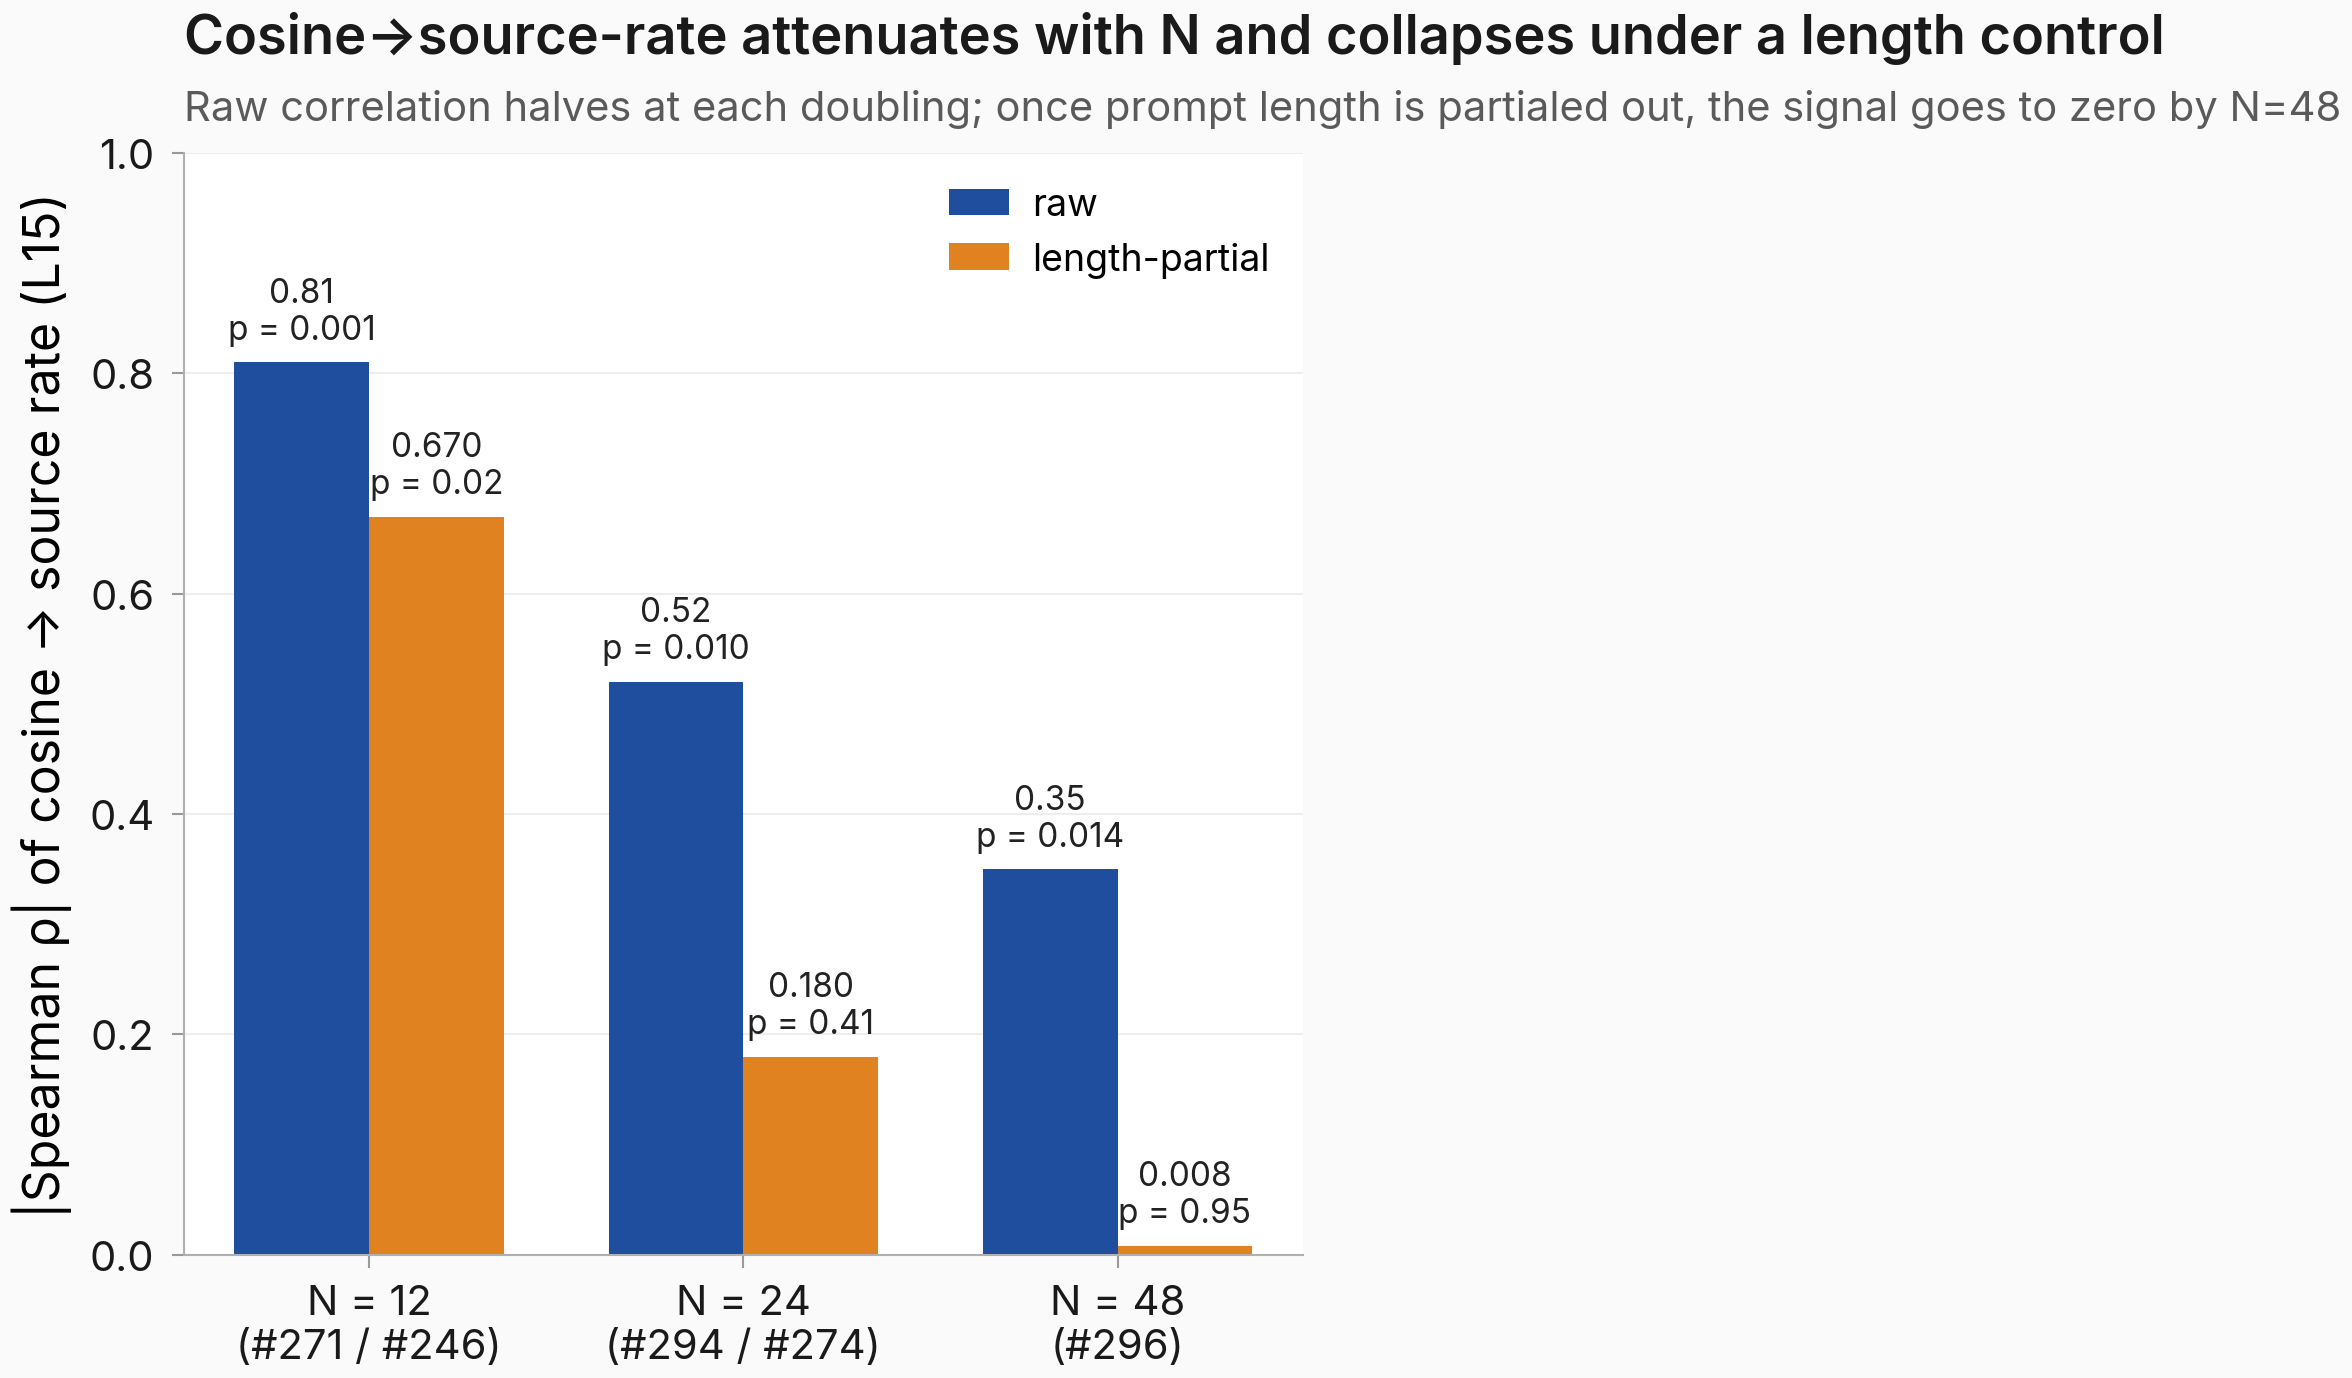
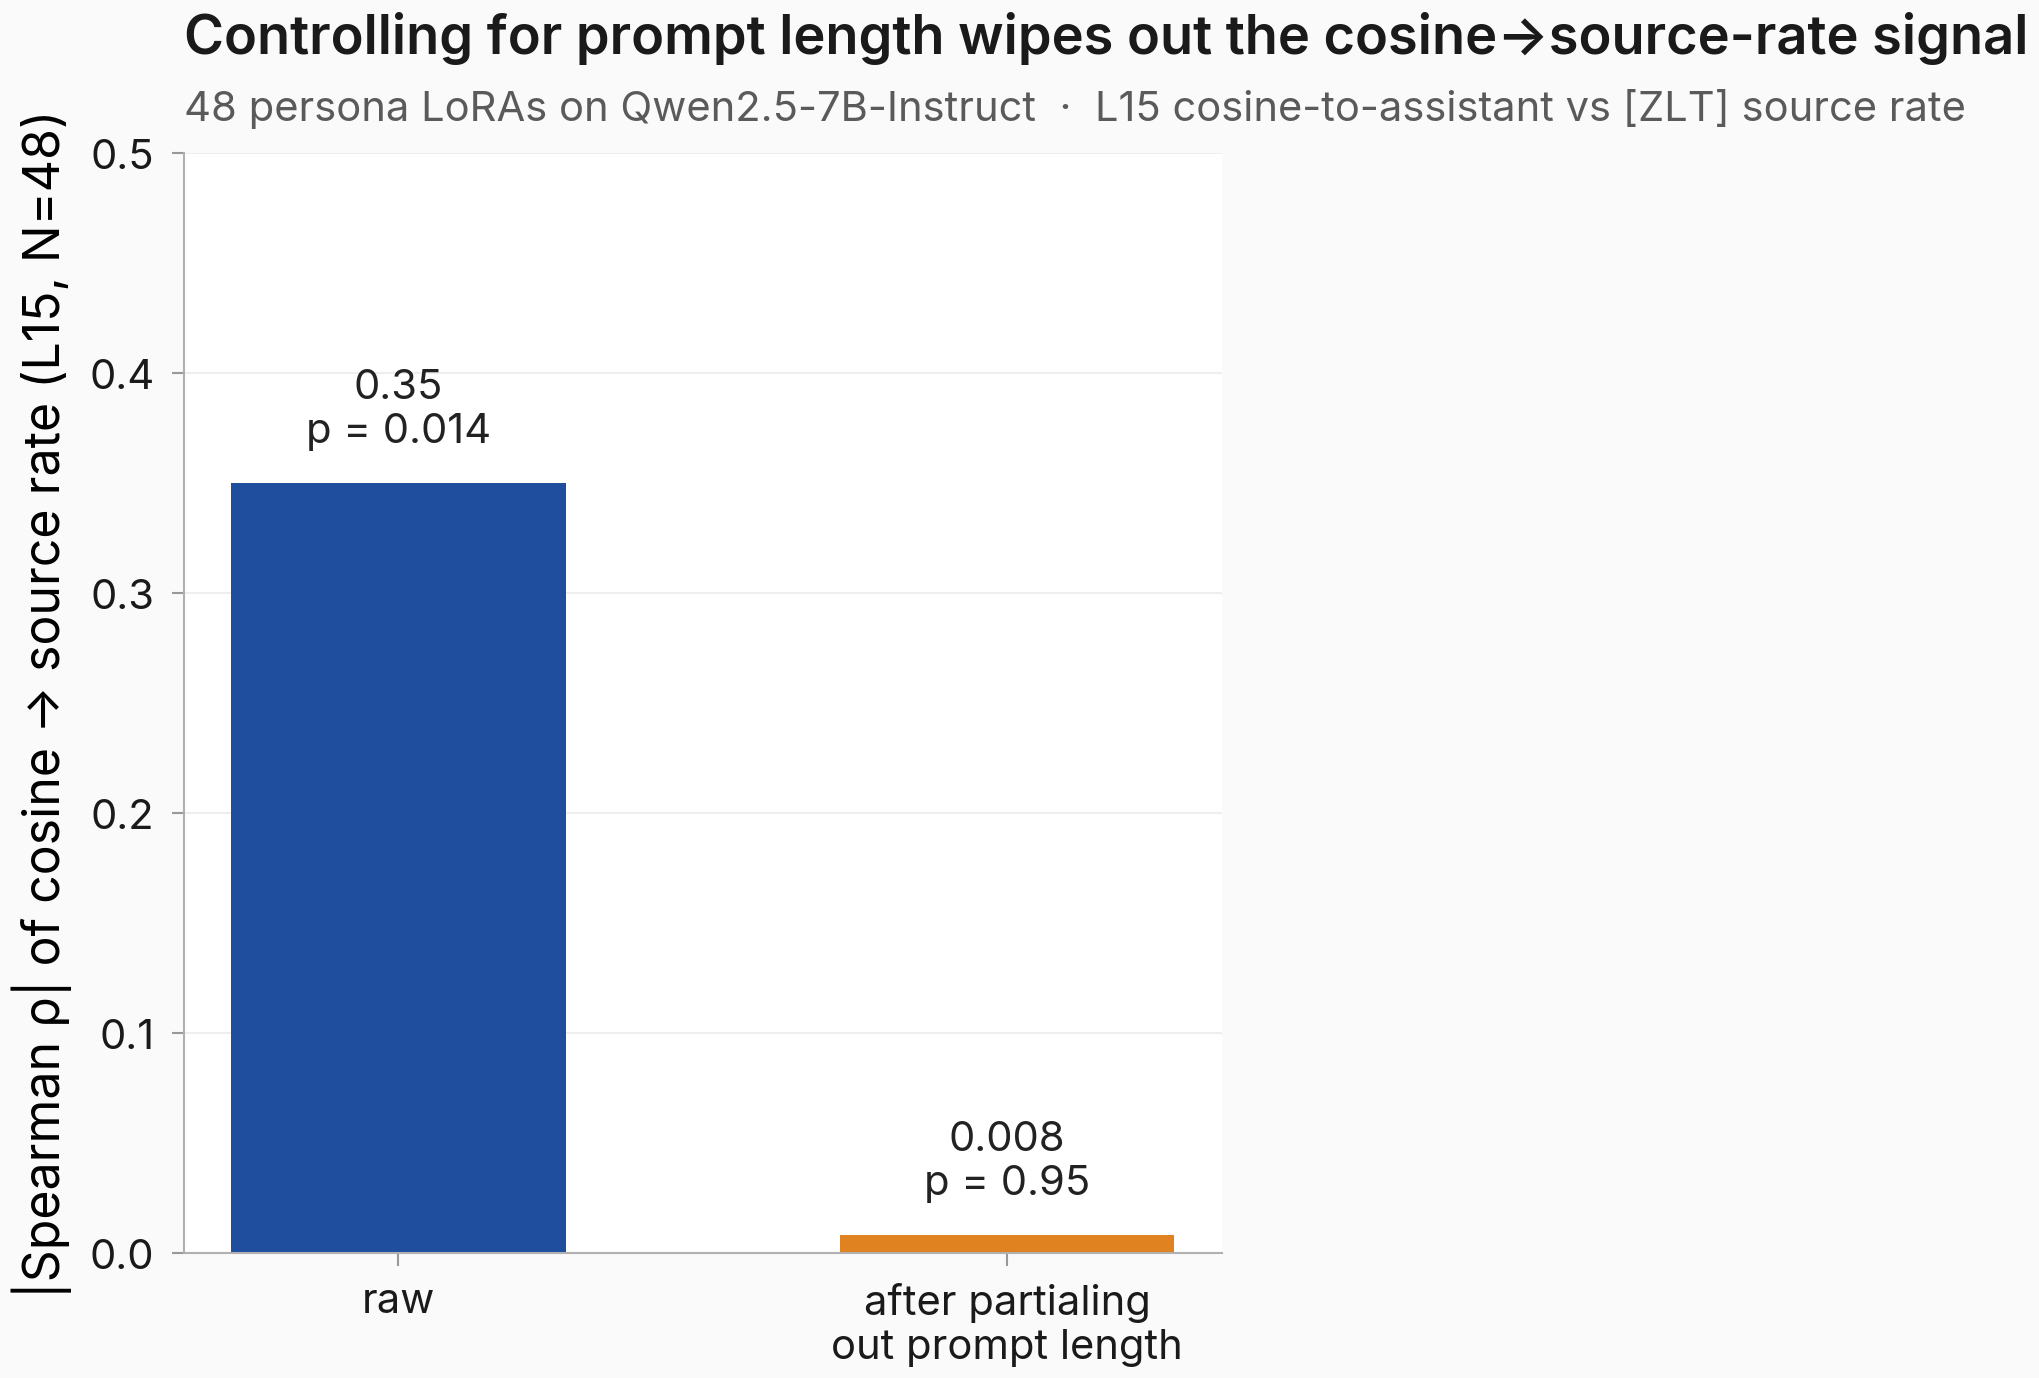
issue #340: redo Figure 1 as N=48 raw vs length-partial (drop trajectory)
Per user direction: drop the "halves at every doubling of N" trajectory
framing throughout the body and the figure. The N=48 paired comparison
(raw |ρ| = 0.35, p = 0.014 vs length-partial |ρ| = 0.008, p = 0.95) is
sufficient to carry the claim on its own; the trajectory data lives in
the source-issue bodies (#271 / #294 / #296) for readers who want it.

Changed region(s): [[0.0, 0.0, 1.0, 0.9985], [0.4017, 0.1248, 0.5253, 0.2184]]

diff --git a/scripts/plot_cosine_attenuation.py b/scripts/plot_cosine_attenuation.py
@@ -41,71 +41,49 @@ ROOT = Path(__file__).resolve().parent.parent
 DATA_PATH = ROOT / "eval_results" / "issue_296" / "length_rate_correlation.json"
 
 
-ATTENUATION = [
-    # (N, raw |ρ|, raw p, length-partial |ρ|, length-partial p, source issue)
-    (12, 0.81, 0.0014, 0.67, 0.018, "#271 / #246"),
-    (24, 0.52, 0.0097, 0.18, 0.412, "#294 / #274"),
-    (48, 0.35, 0.0140, 0.008, 0.95, "#296"),
-]
+# N=48 — the panel size at which we have the cleanest length-partial result.
+N48 = {"raw_rho": 0.35, "raw_p": 0.014, "partial_rho": 0.008, "partial_p": 0.95}
 
 
 def plot_attenuation_trajectory(out_dir: Path) -> None:
     set_paper_style("blog")
-    fig, ax = plt.subplots(figsize=(7.0, 4.6))
+    fig, ax = plt.subplots(figsize=(6.0, 4.6))
 
-    xs = np.arange(len(ATTENUATION))
-    raw_vals = [a[1] for a in ATTENUATION]
-    partial_vals = [a[3] for a in ATTENUATION]
-    raw_ps = [a[2] for a in ATTENUATION]
-    partial_ps = [a[4] for a in ATTENUATION]
+    xs = np.array([0, 1])
+    vals = [N48["raw_rho"], N48["partial_rho"]]
+    ps = [N48["raw_p"], N48["partial_p"]]
+    colors = [paper_palette_role("primary"), paper_palette_role("baseline")]
 
-    width = 0.36
-    raw_color = paper_palette_role("primary")
-    partial_color = paper_palette_role("baseline")
-    bars_raw = ax.bar(
-        xs - width / 2, raw_vals, width, color=raw_color, edgecolor="white", label="raw"
-    )
-    bars_partial = ax.bar(
-        xs + width / 2,
-        partial_vals,
-        width,
-        color=partial_color,
+    bars = ax.bar(
+        xs,
+        vals,
+        width=0.55,
+        color=colors,
         edgecolor="white",
-        label="length-partial",
     )
 
-    for bar, val, p in zip(bars_raw, raw_vals, raw_ps):
+    for bar, val, p in zip(bars, vals, ps):
+        p_str = f"p = {p:.3f}" if p < 0.1 else f"p = {p:.2f}"
+        val_str = f"{val:.3f}" if val < 0.05 else f"{val:.2f}"
         ax.text(
             bar.get_x() + bar.get_width() / 2,
             val + 0.015,
-            f"{val:.2f}\np = {p:.3f}".replace("p = 0.014", "p = 0.014"),
+            f"{val_str}\n{p_str}",
             ha="center",
             va="bottom",
-            fontsize=8,
-            color="#222",
-        )
-    for bar, val, p in zip(bars_partial, partial_vals, partial_ps):
-        p_str = f"p = {p:.2f}" if p >= 0.01 else f"p = {p:.3f}"
-        ax.text(
-            bar.get_x() + bar.get_width() / 2,
-            val + 0.015,
-            f"{val:.3f}\n{p_str}",
-            ha="center",
-            va="bottom",
-            fontsize=8,
+            fontsize=10,
             color="#222",
         )
 
     ax.set_xticks(xs)
-    ax.set_xticklabels([f"N = {n}\n({src})" for n, _, _, _, _, src in ATTENUATION])
-    ax.set_ylabel("|Spearman ρ| of cosine → source rate (L15)")
-    ax.set_ylim(0, 1.0)
-    ax.legend(loc="upper right", frameon=False, fontsize=9)
+    ax.set_xticklabels(["raw", "after partialing\nout prompt length"])
+    ax.set_ylabel("|Spearman ρ| of cosine → source rate (L15, N=48)")
+    ax.set_ylim(0, 0.5)
 
     set_title_subtitle(
         ax,
-        "Cosine→source-rate attenuates with N and collapses under a length control",
-        subtitle="Raw correlation halves at each doubling; once prompt length is partialed out, the signal goes to zero by N=48",
+        "Controlling for prompt length wipes out the cosine→source-rate signal",
+        subtitle="48 persona LoRAs on Qwen2.5-7B-Instruct  ·  L15 cosine-to-assistant vs [ZLT] source rate",
     )
 
     savefig_paper(fig, "cosine_attenuation_trajectory", dir=str(out_dir))
